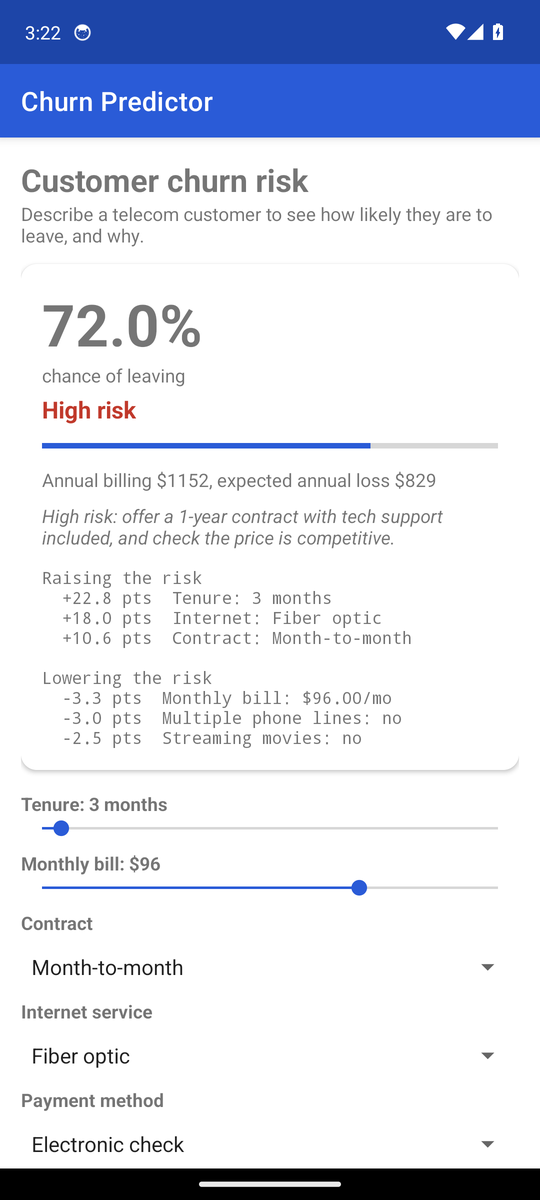
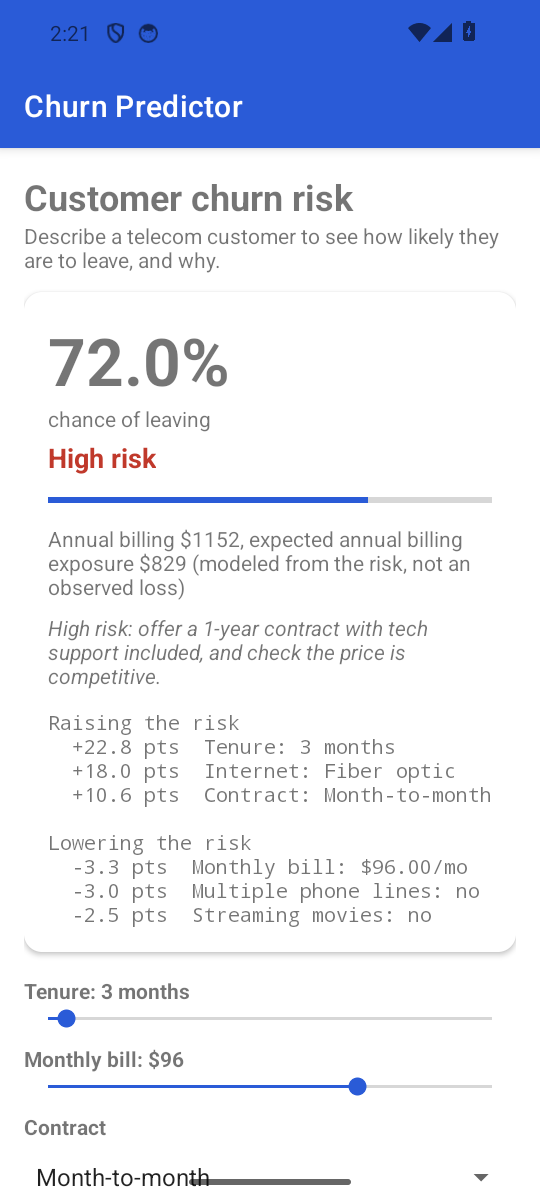
feat: target Android 16, fix edge-to-edge insets, show model provenance, sign releases
targetSdk 36 (edge-to-edge is enforced from Android 15): the first build on an API 36 emulator hid the
title under the app bar and the last controls under the gesture bar, so the screen now enables edge-to-edge
and pads by the system-bar insets; checked on API 34 and API 36. model.json is now a byte-for-byte copy of
the web app's (identical coefficients) and carries provenance, shown on screen. 'Expected annual loss' is now
'expected annual billing exposure (modeled, not an observed loss)'. Releases are signed from an environment
keystore; version 1.1. README: same-model wording, what was verified, the one-time uninstall from 1.0.

Changed region(s): [[0.0, 0.0, 1.0, 1.0], [0.6222, 0.8942, 0.6815, 0.925], [0.8593, 0.74, 0.8889, 0.7708]]

diff --git a/app/src/main/java/com/jayraj/churnpredictor/MainActivity.java b/app/src/main/java/com/jayraj/churnpredictor/MainActivity.java
@@ -11,8 +11,12 @@ import android.widget.SeekBar;
 import android.widget.Spinner;
 import android.widget.TextView;
 
+import androidx.activity.EdgeToEdge;
 import androidx.appcompat.app.AppCompatActivity;
 import androidx.core.content.ContextCompat;
+import androidx.core.graphics.Insets;
+import androidx.core.view.ViewCompat;
+import androidx.core.view.WindowInsetsCompat;
 
 import java.util.List;
 import java.util.Locale;
@@ -25,7 +29,7 @@ public class MainActivity extends AppCompatActivity {
     private SeekBar tenureSeek, chargesSeek;
     private TextView tenureLabel, chargesLabel;
     private Spinner contractSpinner, internetSpinner, paymentSpinner;
-    private TextView probabilityText, riskText, recommendationText, driversText, lossText;
+    private TextView probabilityText, riskText, recommendationText, driversText, exposureText;
     private ProgressBar meter;
 
     private final String[] flagKeys = {
@@ -42,7 +46,17 @@ public class MainActivity extends AppCompatActivity {
     @Override
     protected void onCreate(Bundle savedInstanceState) {
         super.onCreate(savedInstanceState);
+        // Draw behind the system bars on every Android version (Android 15+ enforces this for apps that
+        // target it), and pad the content so nothing hides beneath them. The top inset AppCompat
+        // hands down already includes the app bar, so it is used as is.
+        EdgeToEdge.enable(this);
         setContentView(R.layout.activity_main);
+        ViewCompat.setOnApplyWindowInsetsListener(findViewById(R.id.rootScroll), (view, insets) -> {
+            Insets bars = insets.getInsets(
+                    WindowInsetsCompat.Type.systemBars() | WindowInsetsCompat.Type.displayCutout());
+            view.setPadding(bars.left, bars.top, bars.right, bars.bottom);
+            return insets;
+        });
 
         tenureSeek = findViewById(R.id.tenureSeek);
         chargesSeek = findViewById(R.id.chargesSeek);
@@ -55,13 +69,17 @@ public class MainActivity extends AppCompatActivity {
         riskText = findViewById(R.id.riskText);
         recommendationText = findViewById(R.id.recommendationText);
         driversText = findViewById(R.id.driversText);
-        lossText = findViewById(R.id.lossText);
+        exposureText = findViewById(R.id.exposureText);
         meter = findViewById(R.id.meter);
         LinearLayout flagsContainer = findViewById(R.id.flagsContainer);
 
         ((TextView) findViewById(R.id.modelNote)).setText(getString(R.string.model_note,
                 ModelData.TRAINED_ON, ModelData.N_TRAIN + ModelData.N_TEST,
                 ModelData.ROC_AUC, ModelData.ROC_AUC_LOW, ModelData.ROC_AUC_HIGH));
+        ((TextView) findViewById(R.id.modelProvenance)).setText(getString(R.string.model_provenance,
+                ModelData.MODEL_VERSION, ModelData.TRAINED_DATE, shortHash(ModelData.TRAINING_COMMIT, 7),
+                shortHash(ModelData.DATA_SHA256, 12), shortHash(ModelData.COEFFICIENTS_SHA256, 8),
+                ModelData.SKLEARN_VERSION));
 
         bindSpinner(contractSpinner, ChurnModel.CONTRACTS, 0);
         bindSpinner(internetSpinner, ChurnModel.INTERNET_LABELS, 1);
@@ -154,7 +172,7 @@ public class MainActivity extends AppCompatActivity {
                 : r.band.equals("Moderate") ? R.color.risk_moderate : R.color.risk_low;
         riskText.setTextColor(ContextCompat.getColor(this, color));
         recommendationText.setText(r.recommendation);
-        lossText.setText(getString(R.string.loss_line, r.annualBilling, r.expectedAnnualLoss));
+        exposureText.setText(getString(R.string.exposure_line, r.annualBilling, r.expectedAnnualExposure));
         driversText.setText(drivers(r));
     }
 
@@ -175,5 +193,10 @@ public class MainActivity extends AppCompatActivity {
         for (ChurnModel.Driver d : drivers) {
             sb.append(String.format(Locale.US, "  %+.1f pts  %s\n", d.points, d.label));
         }
+    }
+
+    /** The first {@code n} characters of a hash or commit id, for display. */
+    static String shortHash(String value, int n) {
+        return value.length() <= n ? value : value.substring(0, n);
     }
 }

diff --git a/tools/generate_model.py b/tools/generate_model.py
@@ -1,6 +1,7 @@
 """Generate the Java model constants and test fixtures from model/model.json.
 
-model.json is the artifact exported by the web app's trainer
+model.json is the artifact exported by the web app's trainer, copied byte for byte from
+churnapp's src/lib/model.json (so the two apps serve the same coefficients, and it carries the model's provenance)
 (https://github.com/jayraj0975/churnapp, scripts/train_model.py): a logistic
 regression fitted on IBM's Telco churn data, in raw feature units. This script
 turns it into plain Java so the Android app scores customers with no runtime
@@ -37,6 +38,16 @@ final class ModelData {{
 
     static final String ALGORITHM = {jstr(m["algorithm"])};
     static final String TRAINED_ON = {jstr(m["trainedOn"])};
+
+    // Provenance, copied from model/model.json (which the web app's trainer writes).
+    static final String MODEL_VERSION = {jstr(m["modelVersion"])};
+    static final String TRAINED_DATE = {jstr(m["trainedDate"])};
+    static final String TRAINING_COMMIT = {jstr(m["provenance"]["trainingCommit"] or "unknown")};
+    static final String DATA_SHA256 = {jstr(m["provenance"]["dataSha256"])};
+    static final String COEFFICIENTS_SHA256 = {jstr(m["provenance"]["coefficientsSha256"])};
+    static final String FEATURE_SCHEMA_SHA256 = {jstr(m["provenance"]["featureSchemaSha256"])};
+    static final String SKLEARN_VERSION = {jstr(m["provenance"]["sklearn"])};
+
     static final int N_TRAIN = {m["nTrain"]};
     static final int N_TEST = {m["nTest"]};
     static final double BASE_RATE = {m["baseRate"]!r};

diff --git a/app/src/test/java/com/jayraj/churnpredictor/ChurnModelTest.java b/app/src/test/java/com/jayraj/churnpredictor/ChurnModelTest.java
@@ -103,10 +103,10 @@ public class ChurnModelTest {
     }
 
     @Test
-    public void expectedLossIsBillingTimesProbability() {
+    public void expectedExposureIsBillingTimesProbability() {
         ChurnModel.Result r = ChurnModel.predict(base());
         assertEquals(96.5 * 12, r.annualBilling, 1e-9);
-        assertEquals(r.annualBilling * r.probability, r.expectedAnnualLoss, 1e-9);
+        assertEquals(r.annualBilling * r.probability, r.expectedAnnualExposure, 1e-9);
         assertEquals(ChurnModel.probability(base()), r.probability, 1e-12);
     }
 
@@ -116,5 +116,16 @@ public class ChurnModelTest {
         assertEquals(ModelData.KEYS.length, ChurnModel.vector(base()).length);
         assertEquals(ModelData.KEYS.length, ModelData.COEF.length);
         assertEquals(ModelData.KEYS.length, ModelData.MEANS.length);
+    }
+
+    @Test
+    public void modelCarriesItsProvenance() {
+        assertTrue(ModelData.MODEL_VERSION.matches("\\d+\\.\\d+\\.\\d+"));
+        assertTrue(ModelData.DATA_SHA256.matches("[0-9a-f]{64}"));
+        assertTrue(ModelData.COEFFICIENTS_SHA256.matches("[0-9a-f]{64}"));
+        assertTrue(ModelData.FEATURE_SCHEMA_SHA256.matches("[0-9a-f]{64}"));
+        assertFalse(ModelData.SKLEARN_VERSION.isEmpty());
+        assertEquals("abc", MainActivity.shortHash("abcdef", 3));
+        assertEquals("ab", MainActivity.shortHash("ab", 3));
     }
 }

diff --git a/app/src/main/java/com/jayraj/churnpredictor/ModelData.java b/app/src/main/java/com/jayraj/churnpredictor/ModelData.java
@@ -6,6 +6,16 @@ final class ModelData {
 
     static final String ALGORITHM = "Logistic regression (L2, unweighted)";
     static final String TRAINED_ON = "IBM Telco Customer Churn";
+
+    // Provenance, copied from model/model.json (which the web app's trainer writes).
+    static final String MODEL_VERSION = "1.0.0";
+    static final String TRAINED_DATE = "2026-09-25";
+    static final String TRAINING_COMMIT = "3d29b62fd9fee2bfeff319ce71178fb6d6e53f9b";
[3 lines of base64/hex data omitted]
+    static final String SKLEARN_VERSION = "1.9.1";
+
     static final int N_TRAIN = 5625;
     static final int N_TEST = 1407;
     static final double BASE_RATE = 0.26578498293515357;

diff --git a/app/src/main/java/com/jayraj/churnpredictor/ChurnModel.java b/app/src/main/java/com/jayraj/churnpredictor/ChurnModel.java
@@ -56,7 +56,7 @@ public final class ChurnModel {
         public final List<Driver> raising;
         public final List<Driver> lowering;
         public final double annualBilling;
-        public final double expectedAnnualLoss;
+        public final double expectedAnnualExposure;
 
         Result(double probability, String band, String recommendation,
                List<Driver> raising, List<Driver> lowering, double annualBilling) {
@@ -66,7 +66,7 @@ public final class ChurnModel {
             this.raising = raising;
             this.lowering = lowering;
             this.annualBilling = annualBilling;
-            this.expectedAnnualLoss = annualBilling * probability;
+            this.expectedAnnualExposure = annualBilling * probability;
         }
     }
 

diff --git a/README.md b/README.md
@@ -7,11 +7,12 @@ customer (tenure, bill, contract, services, payment, household) and it shows the
 a risk band, the factors raising and lowering the risk, and a suggested retention step. Everything is
 computed **on the device**, with no network and no backend.
 
-**Try it:** download the debug APK from the [latest release](https://github.com/jayraj0975/churn-predictor-android/releases/latest) and install it on an Android phone (7.0+). It is a debug build, so Android will ask you to allow installing from that source.
+**Try it:** download the signed APK from the [latest release](https://github.com/jayraj0975/churn-predictor-android/releases/latest) and install it on an Android phone (7.0+). Android will ask you to allow installing from that source. **If you installed version 1.0**, uninstall it first: 1.0 was signed with a temporary debug key that no longer exists, so Android will refuse to update it in place. From 1.1 on, releases are signed with one stable key and update normally.
 
-Part of a small set: [`customer-churn-analysis`](https://github.com/jayraj0975/customer-churn-analysis) (the analysis),
-[`churnapp`](https://github.com/jayraj0975/churnapp) (the web app) and this Android client. All three
-use the same trained model.
+Part of a small set: [`customer-churn-analysis`](https://github.com/jayraj0975/customer-churn-analysis) (a broader model comparison),
+[`churnapp`](https://github.com/jayraj0975/churnapp) (the web app) and this Android client. The web app and this app serve **the same
+logistic-regression model**: `model/model.json` here is a byte-for-byte copy of the web app's `src/lib/model.json`. The analysis repo compares
+models and its cross-validation selects a random forest, which is **not** what either app serves.
 
 ## The model
 
@@ -23,7 +24,11 @@ probabilities honest. Driver figures are the model's associations, not proven ca
 
 `model/model.json` is that model exported from the web app's trainer. `tools/generate_model.py` turns it into
 plain Java constants (`ModelData.java`) and the test fixtures, so scoring is
-`sigmoid(intercept + sum(coefficient x value))` in pure Java.
+`sigmoid(intercept + sum(coefficient x value))` in pure Java. The model's provenance (version, training commit, dataset SHA-256,
+coefficient and feature-schema hashes, scikit-learn version) is generated into `ModelData` too and shown at the bottom of the screen.
+
+The money line is **modeled exposure**, not observed loss: annual billing times the predicted churn probability. The data has no
+revenue history, so it is not lifetime value and not money a business is guaranteed to keep.
 
 ## Verified
 
@@ -31,13 +36,16 @@ plain Java constants (`ModelData.java`) and the test fixtures, so scoring is
   on eight real customers; probabilities move the way the data shows (longer contract, longer tenure and automatic
   payment lower risk); the model is calibrated on the held-out set; bands, driver signs and the expected-loss
   arithmetic are checked.
-- **Builds** with Gradle 9.7.1, Android Gradle Plugin 9.4.1 and JDK 17 (`assembleDebug`), and **Android lint passes** with errors set to fail the build.
+- **Builds** with Gradle 9.7.1, Android Gradle Plugin 9.4.1 and JDK 17 (`assembleDebug`, and a signed `assembleRelease`), and **Android lint passes** with errors set to fail the build. `compileSdk` and `targetSdk` are both 36.
 - CI regenerates the model constants and fails if they differ from what is committed.
 
-**Run on an emulator.** I installed the debug APK on an Android 14 (API 34, x86_64, hardware-accelerated) emulator: it
-launches without a crash, and the on-screen probability matches an independent calculation from `model/model.json`
+**Run on emulators.** I installed the app on an Android 14 (API 34) and an Android 16 (API 36) emulator (x86_64, hardware-accelerated):
+it launches without a crash on both, and the on-screen probability matches an independent calculation from `model/model.json`
 (72.0% for the default customer; choosing a two-year contract in the UI recomputes it to 40.2% and moves the band to Moderate).
-It has **not** been tried on a physical phone.
+Raising `targetSdk` to 36 turns on enforced edge-to-edge drawing on Android 15+, and the first build on the API 36 emulator
+**did** break: the title and the top of the card sat under the app bar and the last controls under the gesture bar. The screen now opts in
+to edge-to-edge explicitly and pads by the system-bar insets (the top inset AppCompat passes down already includes the app bar), and
+was re-checked at the top and bottom of the scroll on both versions. It has **not** been tried on a physical phone.
 
 | Default customer | Two-year contract selected |
 |---|---|
@@ -49,7 +57,11 @@ It has **not** been tried on a physical phone.
 ./gradlew testDebugUnitTest          # model tests
 ./gradlew assembleDebug              # app/build/outputs/apk/debug/app-debug.apk
 ```
-Or open the folder in Android Studio and run it. Needs JDK 17 and the Android SDK (API 34).
+Or open the folder in Android Studio and run it. Needs JDK 17 and the Android SDK (API 36 platform).
+
+A signed release build reads its key from the environment, so no key or password is in the repository:
+`CHURN_KEYSTORE`, `CHURN_KEYSTORE_PASSWORD` and (optionally) `CHURN_KEY_ALIAS`, then `./gradlew assembleRelease`. Without
+`CHURN_KEYSTORE` the release build is produced unsigned.
 
 To update the model: replace `model/model.json` with a new export, then `python3 tools/generate_model.py`.
 
